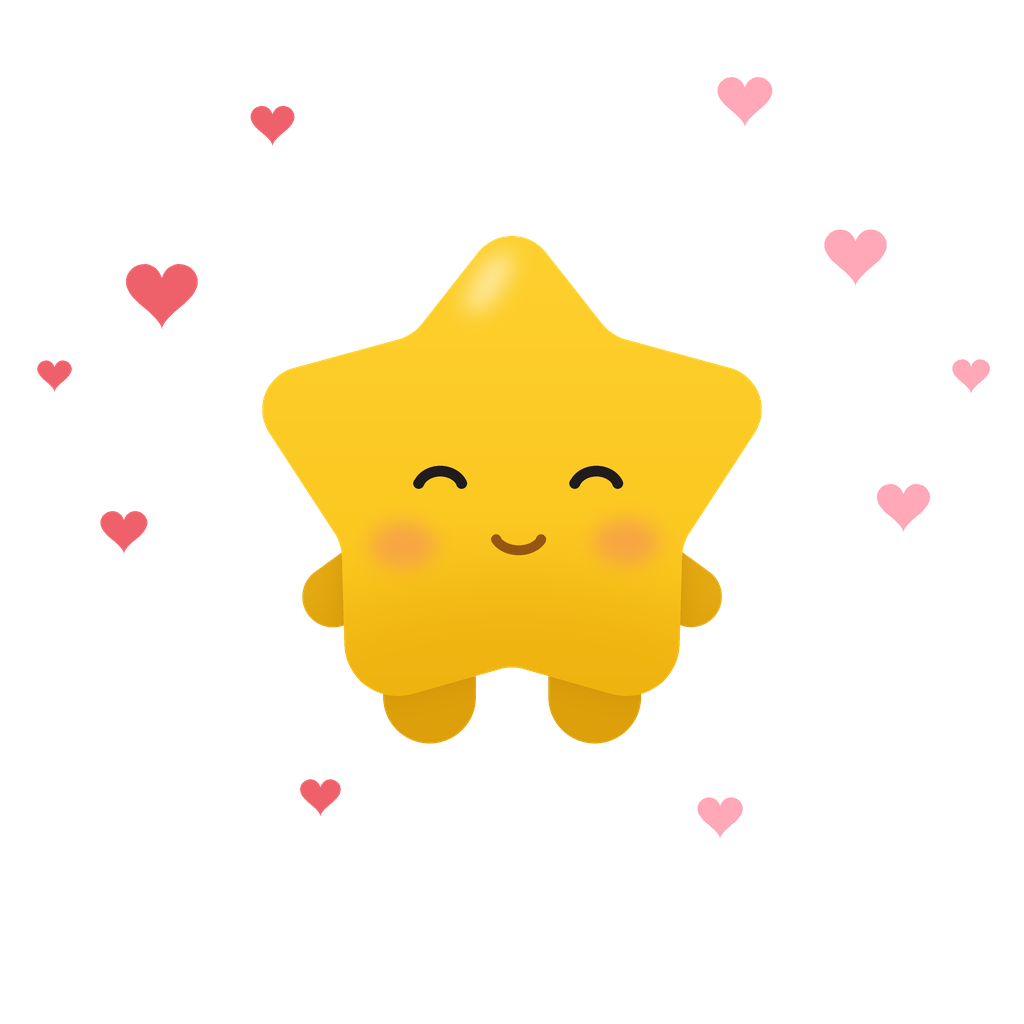
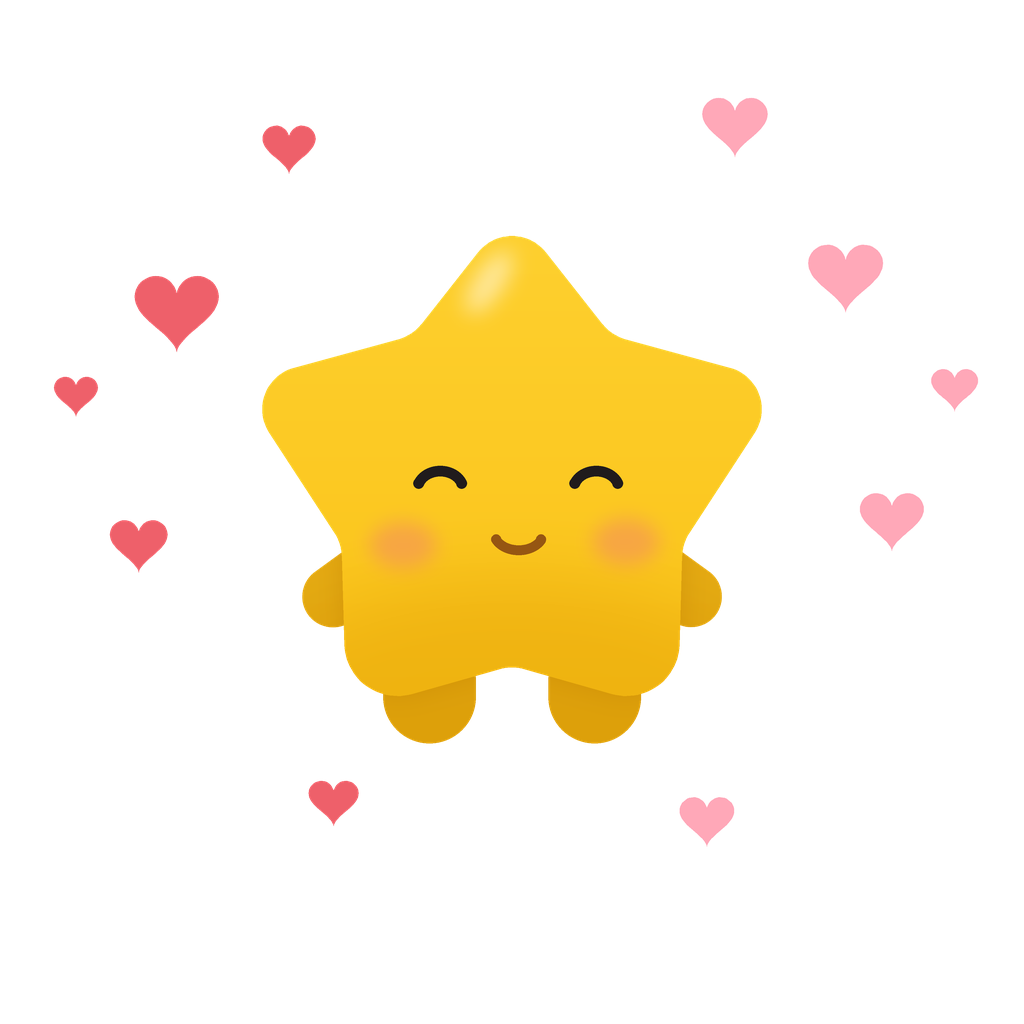
Tune the exercise and practice scenes (15-21)
The press hat hovered above the head — it now sits on the ray with a
bigger badge. Clapping hands were buried in the silhouette, so the clap
pose reaches across the chest and the hands are re-drawn on top with the
motion arcs moved outside them. The rocket sits higher with a sparkle
trail and the character cheers at the launch instead of ignoring it.
Hearts around ex6 are larger and closer, and ex5b gets a star field so
the frame is not empty.

Claude-Session: https://claude.ai/code/session_015M4W5mwAC7ThVprora4HqH

diff --git a/scenes.py b/scenes.py
@@ -129,9 +129,9 @@ def aura(img):
 def hearts_around(img):
     """Сердечки вокруг персонажа — «любовь к себе»."""
     lay, d = layer(img)
-    ring = ((196, 352, 92), (1036, 306, 80), (150, 640, 60), (1094, 610, 68),
-            (330, 148, 56), (902, 118, 70), (388, 962, 52), (872, 986, 58),
-            (66, 452, 44), (1176, 452, 48))
+    ring = ((214, 372, 108), (1024, 330, 96), (168, 656, 74), (1080, 626, 82),
+            (350, 176, 68), (890, 148, 84), (404, 968, 64), (856, 990, 70),
+            (92, 476, 56), (1156, 468, 60))
     for i, (cx, cy, size) in enumerate(ring):
         color = RED if i % 2 == 0 else (255, 156, 176)
         heart(d, cx, cy, size, color, 255 if i % 2 == 0 else 225)
@@ -226,6 +226,11 @@ def hands_notepad(img):
     hands_over(img)
 
 
+def hands_clap(img):
+    """Сомкнутые ладони поверх корпуса — иначе они тонут в силуэте."""
+    hands_over(img, arm="clap")
+
+
 def cloud(img):
     """Облако, в котором персонаж сидит: рисуется поверх ножек."""
     lay, d = layer(img)
@@ -288,17 +293,17 @@ def beanie(img):
 def press_hat(img):
     """Шляпа журналиста: поля, тулья и карточка PRESS."""
     lay, d = layer(img)
-    d.rounded_rectangle(sbox([386, 344, 856, 400]), radius=s(28),
+    d.rounded_rectangle(sbox([362, 396, 878, 456]), radius=s(30),
                         fill=METAL + (255,))
-    d.rounded_rectangle(sbox([470, 168, 772, 358]), radius=s(40),
+    d.rounded_rectangle(sbox([454, 176, 786, 410]), radius=s(44),
                         fill=METAL_LIGHT + (255,))
-    d.rounded_rectangle(sbox([466, 300, 776, 352]), radius=s(20),
+    d.rounded_rectangle(sbox([450, 340, 790, 404]), radius=s(22),
                         fill=METAL + (255,))
-    d.rounded_rectangle(sbox([700, 292, 806, 356]), radius=s(12),
+    d.rounded_rectangle(sbox([694, 320, 848, 412]), radius=s(16),
                         fill=PAPER + (255,))
     for i in range(3):
-        d.line(sbox([714, 308 + i * 16, 792, 308 + i * 16]),
-               fill=PAPER_LINE + (255,), width=int(s(6)))
+        d.line(sbox([714, 344 + i * 22, 828, 344 + i * 22]),
+               fill=PAPER_LINE + (255,), width=int(s(8)))
     img.alpha_composite(lay)
 
 
@@ -372,19 +377,21 @@ def flag(img):
 def rocket(img):
     """Ракета рядом с персонажем."""
     lay, d = layer(img)
-    cx = 966
-    d.polygon([*sbox([cx, 236]), *sbox([cx + 82, 400]), *sbox([cx - 82, 400])],
+    cx = 962
+    for sx, sy, sz in ((cx, 940, 26), (cx - 40, 1010, 18), (cx + 44, 1002, 20)):
+        star4(d, sx, sy, sz, STAR_LIGHT, 220)
+    d.polygon([*sbox([cx, 196]), *sbox([cx + 82, 360]), *sbox([cx - 82, 360])],
               fill=RED + (255,))
-    d.rounded_rectangle(sbox([cx - 82, 372, cx + 82, 744]), radius=s(60),
+    d.rounded_rectangle(sbox([cx - 82, 332, cx + 82, 704]), radius=s(60),
                         fill=PAPER + (255,))
-    d.ellipse(sbox([cx - 44, 456, cx + 44, 544]), fill=ACCENT + (255,))
-    d.polygon([*sbox([cx - 82, 620]), *sbox([cx - 168, 774]), *sbox([cx - 82, 744])],
+    d.ellipse(sbox([cx - 44, 416, cx + 44, 504]), fill=ACCENT + (255,))
+    d.polygon([*sbox([cx - 82, 580]), *sbox([cx - 168, 734]), *sbox([cx - 82, 704])],
               fill=RED + (255,))
-    d.polygon([*sbox([cx + 82, 620]), *sbox([cx + 168, 774]), *sbox([cx + 82, 744])],
+    d.polygon([*sbox([cx + 82, 580]), *sbox([cx + 168, 734]), *sbox([cx + 82, 704])],
               fill=RED + (255,))
-    d.polygon([*sbox([cx - 58, 744]), *sbox([cx + 58, 744]), *sbox([cx, 906])],
+    d.polygon([*sbox([cx - 58, 704]), *sbox([cx + 58, 704]), *sbox([cx, 872])],
               fill=STAR_LIGHT + (255,))
-    d.polygon([*sbox([cx - 30, 744]), *sbox([cx + 30, 744]), *sbox([cx, 846])],
+    d.polygon([*sbox([cx - 30, 704]), *sbox([cx + 30, 704]), *sbox([cx, 810])],
               fill=(255, 236, 170, 255))
     img.alpha_composite(lay)
 
@@ -392,11 +399,10 @@ def rocket(img):
 def clap_lines(img):
     """Дужки у сведённых ладоней — аплодисменты."""
     lay, d = layer(img)
-    for r in (104, 148, 192):
-        d.arc(sbox([620 - r, 706 - r, 620 + r, 706 + r]), 196, 252,
-              fill=cs.MOTION + (255,), width=int(s(15)))
-        d.arc(sbox([620 - r, 706 - r, 620 + r, 706 + r]), 288, 344,
-              fill=cs.MOTION + (255,), width=int(s(15)))
+    for cx, a0, a1 in ((452, 132, 228), (788, 312, 48)):
+        for r in (58, 92):
+            d.arc(sbox([cx - r, 730 - r, cx + r, 730 + r]), a0, a1,
+                  fill=cs.MOTION + (255,), width=int(s(14)))
     img.alpha_composite(lay)
 
 
@@ -459,15 +465,16 @@ SCENES: dict[str, dict] = {
     "ex5a": dict(pose="hold", face=F(mouth="smile"), title="Держит карточку",
                  front=[card, hands_notepad]),
     "ex5b": dict(pose="idle", face=F(eyes="closed", brows="none", mouth="wide"),
-                 title="Улыбается"),
+                 title="Улыбается", back=[stars_around]),
     "ex6": dict(pose="hug", face=F(eyes="closed", brows="none", mouth="smile"),
                 title="Вокруг сердечки", back=[hearts_around], blush=215),
     "ex7": dict(pose="clap", face=F(eyes="closed", brows="none", mouth="open"),
-                title="Аплодирует", back=[sparkle_burst], front=[clap_lines]),
+                title="Аплодирует", back=[sparkle_burst],
+                front=[hands_clap, clap_lines]),
     "ex8": dict(pose="hold", face=F(mouth="smile"), title="Пишет письмо",
                 front=[letter, hands_notepad]),
-    "ex9": dict(pose="idle", face=F(eyes="sparkle", brows="raised", mouth="open"),
-                title="С ракетой", back=[stars_around], front=[rocket]),
+    "ex9": dict(pose="cheer", face=F(eyes="sparkle", brows="raised", mouth="open"),
+                title="С ракетой", back=[stars_around, rocket]),
     "ex10": dict(pose="hold", face=F(eyes="closed", brows="none", mouth="smile"),
                  title="Держит сердце", blush=210,
                  front=[big_heart, hands_heart]),

diff --git a/cute_star.py b/cute_star.py
@@ -221,7 +221,7 @@ ARMS = {
     "up": ARM_UP,
     "hold": (150, 706, 74, 152, 58),     # вперёд-внутрь: держит предмет
     "point": (270, 646, 74, 176, -78),   # вбок, почти горизонтально
-    "clap": (176, 676, 74, 150, 62),     # ладони сведены перед собой
+    "clap": (116, 736, 74, 152, 76),     # ладони сведены перед собой
     "hug": (186, 700, 74, 150, 54),      # обнимает — чуть ниже, чем hold
 }
 
